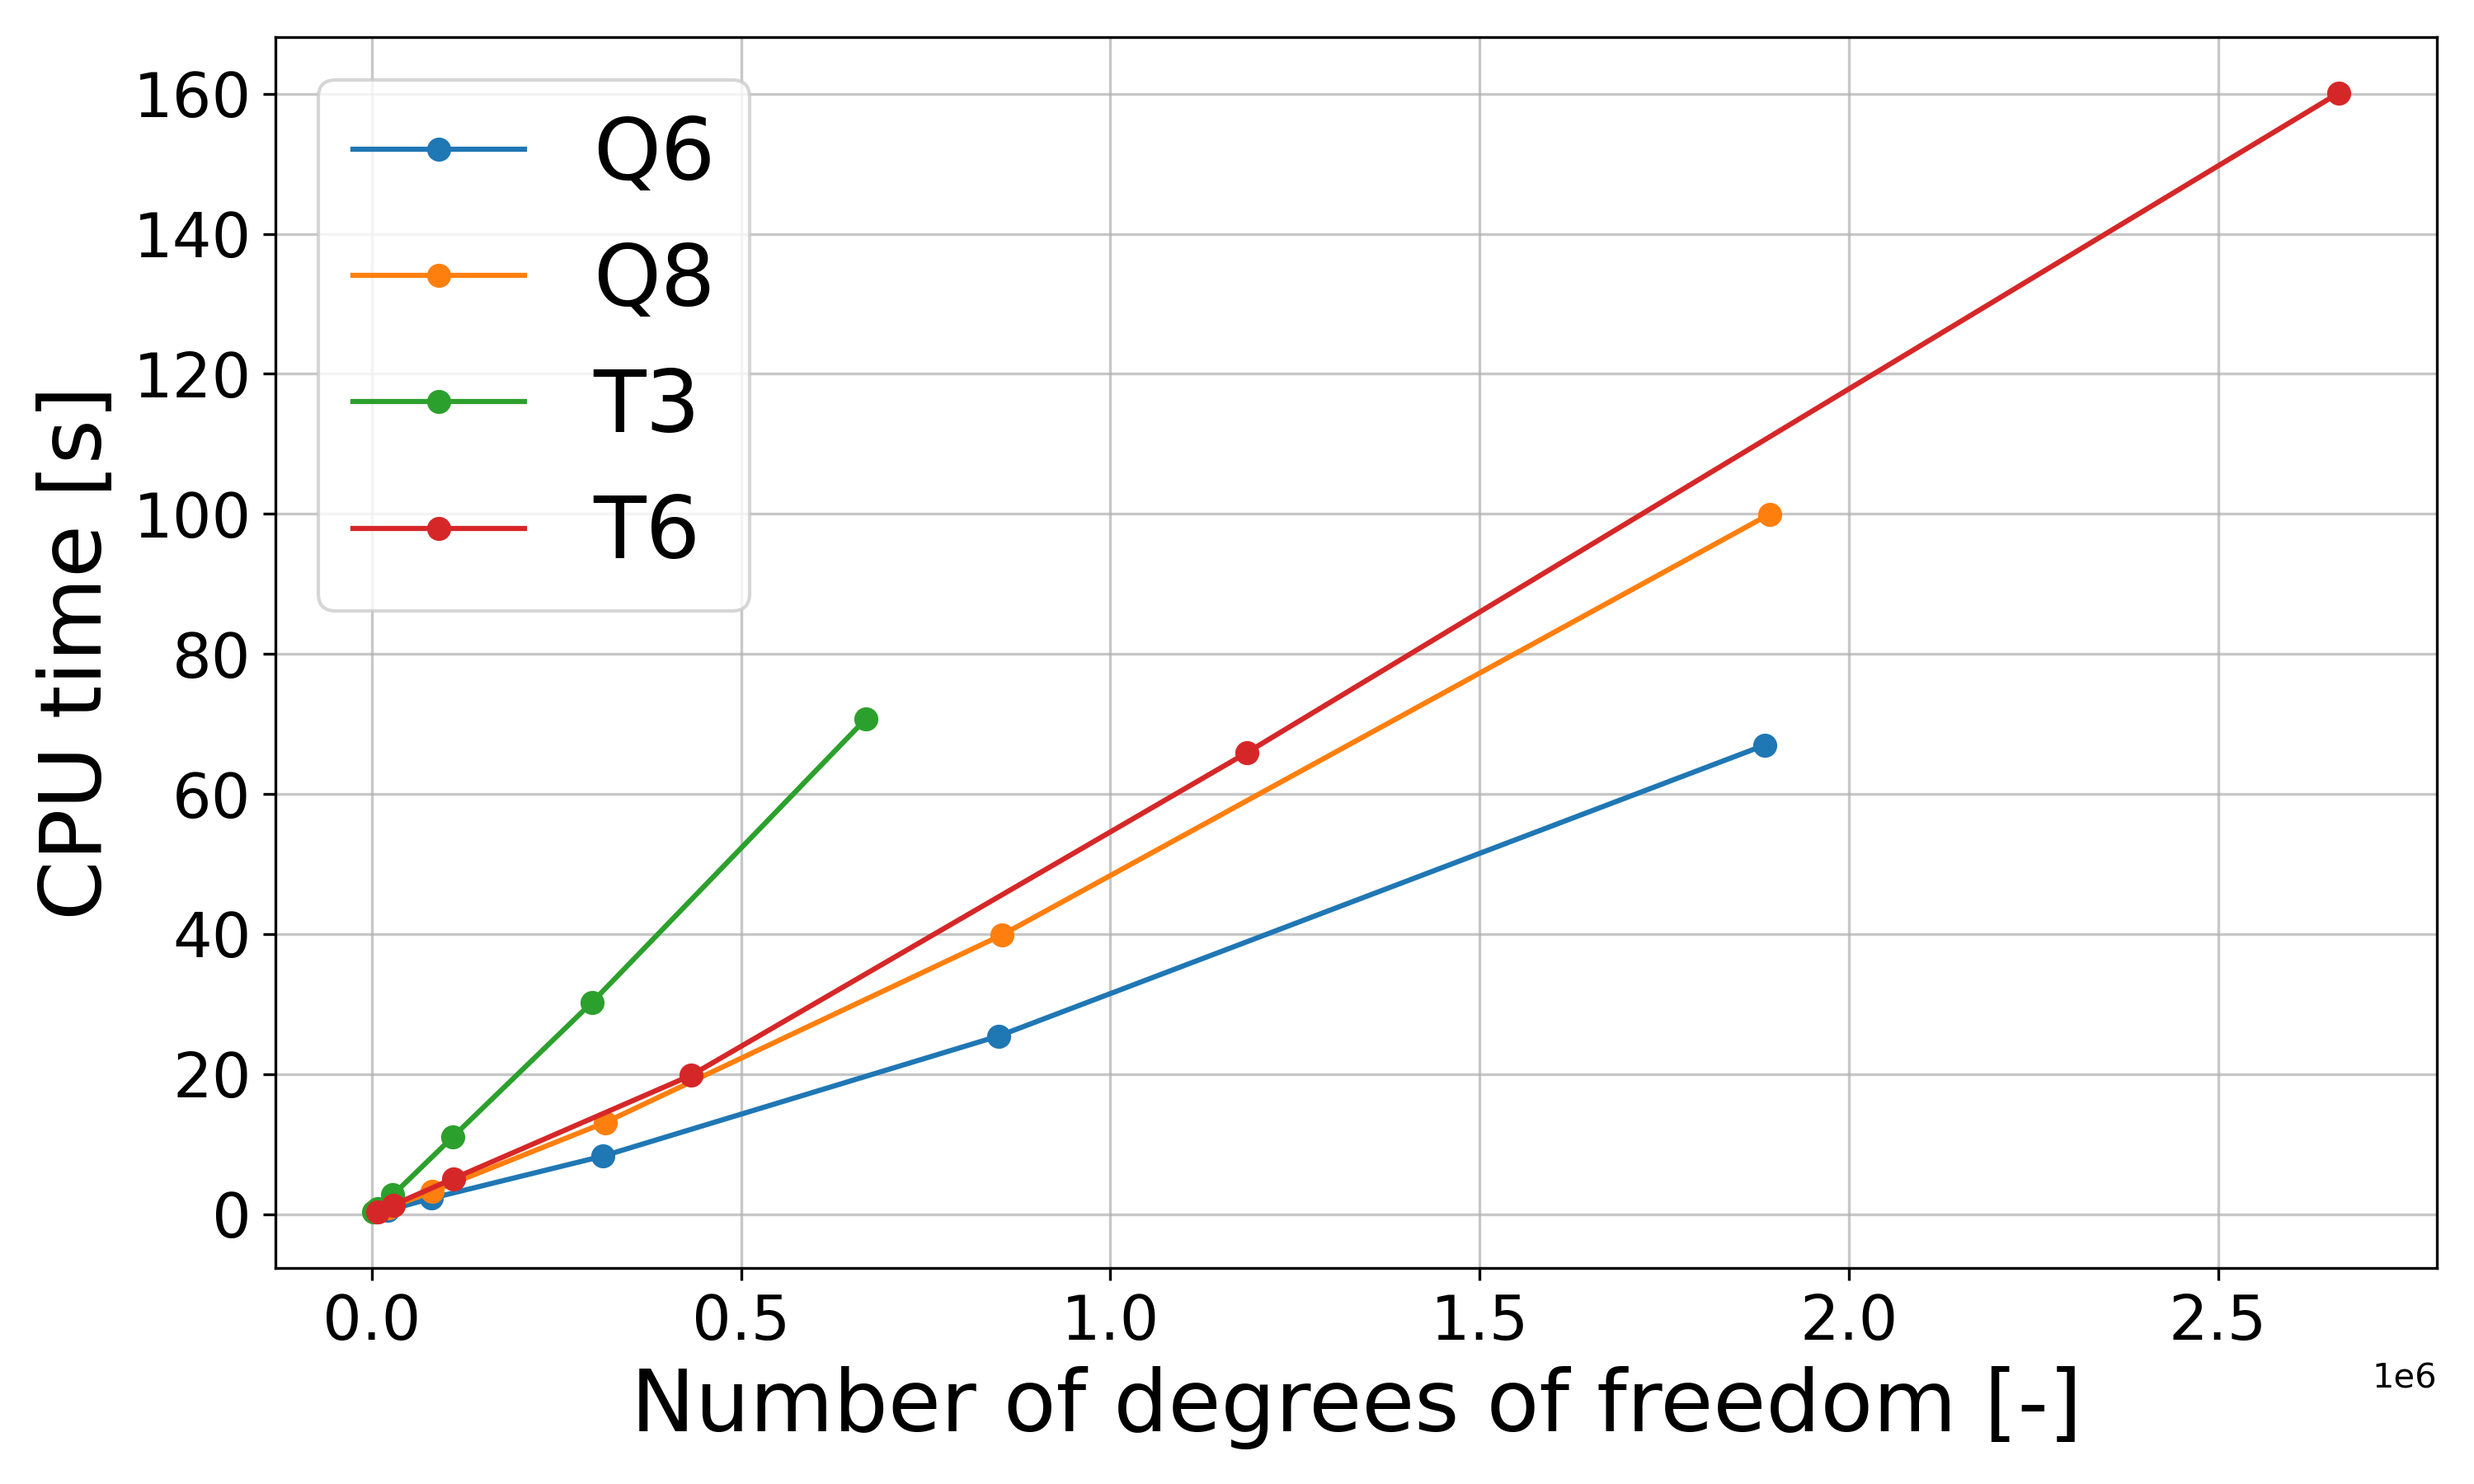
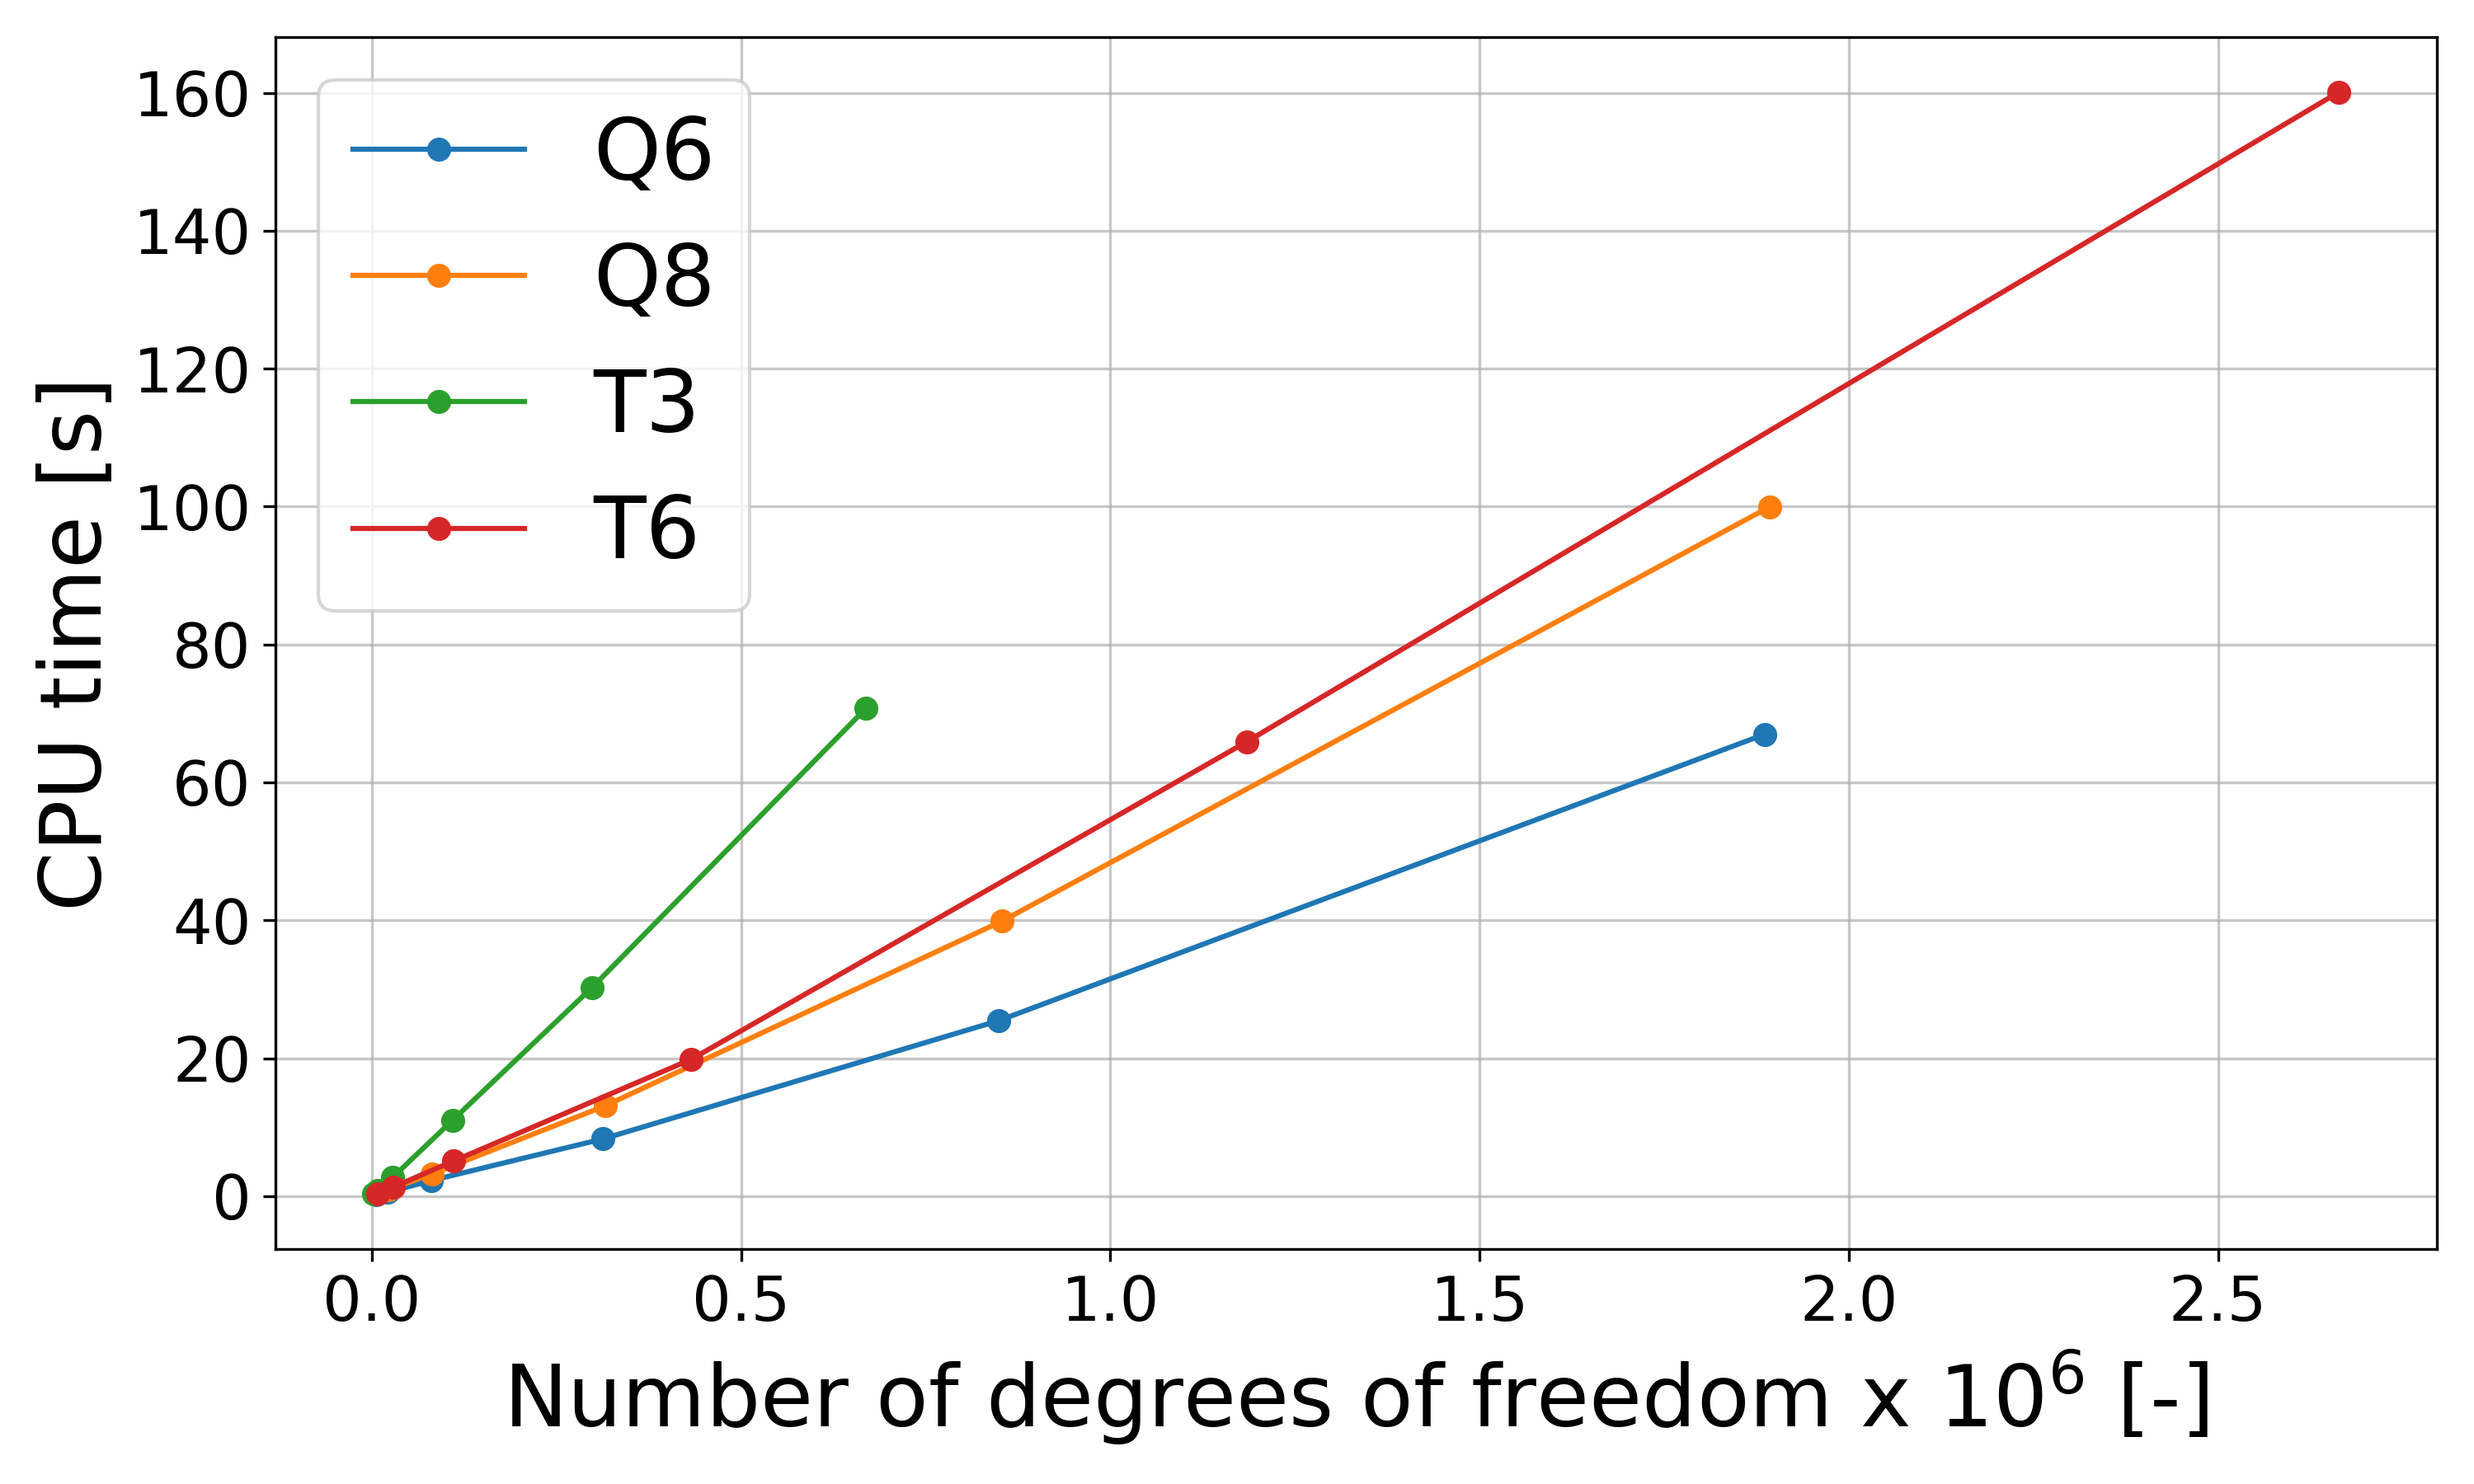
fix: plotCSV.py little index in bottom right corner

diff --git a/2_ FEA coarse meshes/plotCSV.py b/2_ FEA coarse meshes/plotCSV.py
@@ -25,9 +25,17 @@ def plot_metric(x_key, y_key,xlabel, ylabel, title, filename, reference_line=Non
     for folder in folders:
         df = data[folder]
         if x_key == 'NElem':
-            df[x_key] = np.array(df[x_key]) / 1e5 # Conversion to 10^5
+            # Create a temporary x_values for plotting, leaving the original data unchanged
+            x_values = np.array(df[x_key]) / 1e5 if x_key == 'NElem' else df[x_key]
+            plt.plot(x_values, df[y_key], marker='o', label=folder)
             xlabel = 'Number of elements x $10^5$ [-]'
-        plt.plot(df[x_key], df[y_key], marker='o', label=folder)
+        elif x_key == 'NDOF':
+            # Create a temporary x_values for plotting, leaving the original data unchanged
+            x_values = np.array(df[x_key]) / 1e6 if x_key == 'NDOF' else df[x_key]
+            plt.plot(x_values, df[y_key], marker='o', label=folder)
+            xlabel = 'Number of degrees of freedom x $10^6$ [-]'
+        else:
+            plt.plot(df[x_key], df[y_key], marker='o', label=folder)
         
     if reference_line is not None:
         plt.axhline(reference_line, color='gray',
